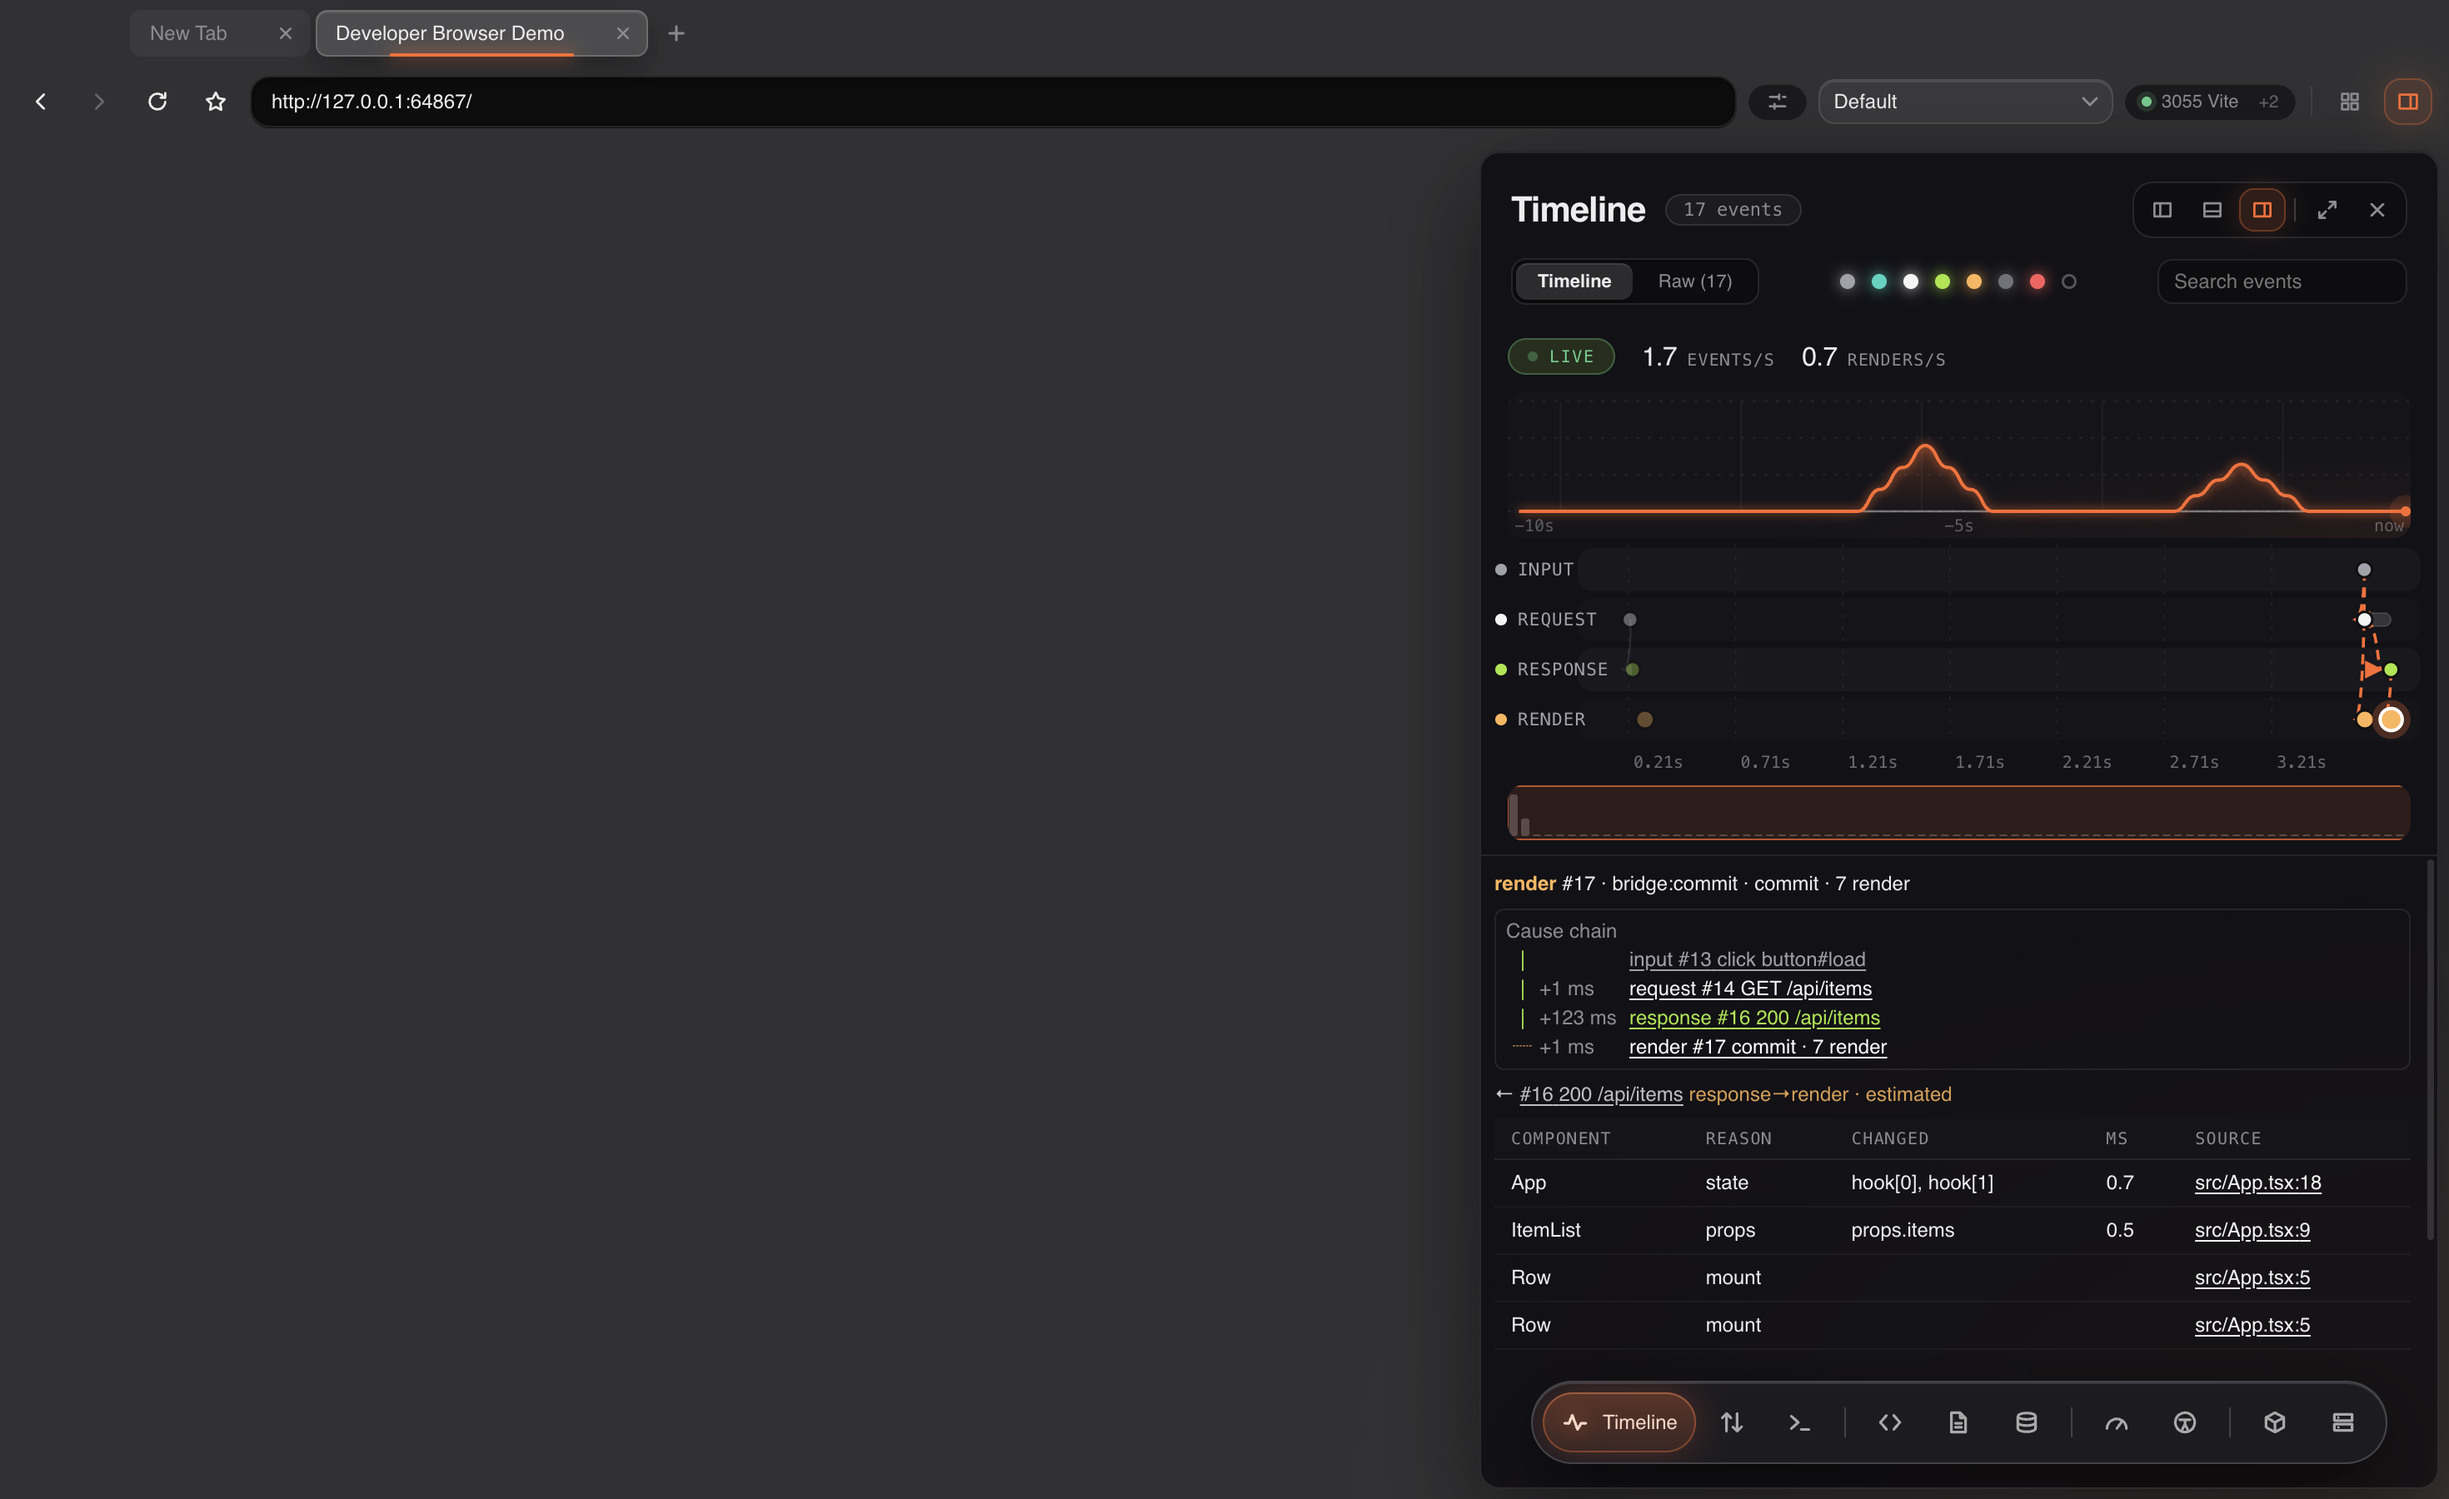
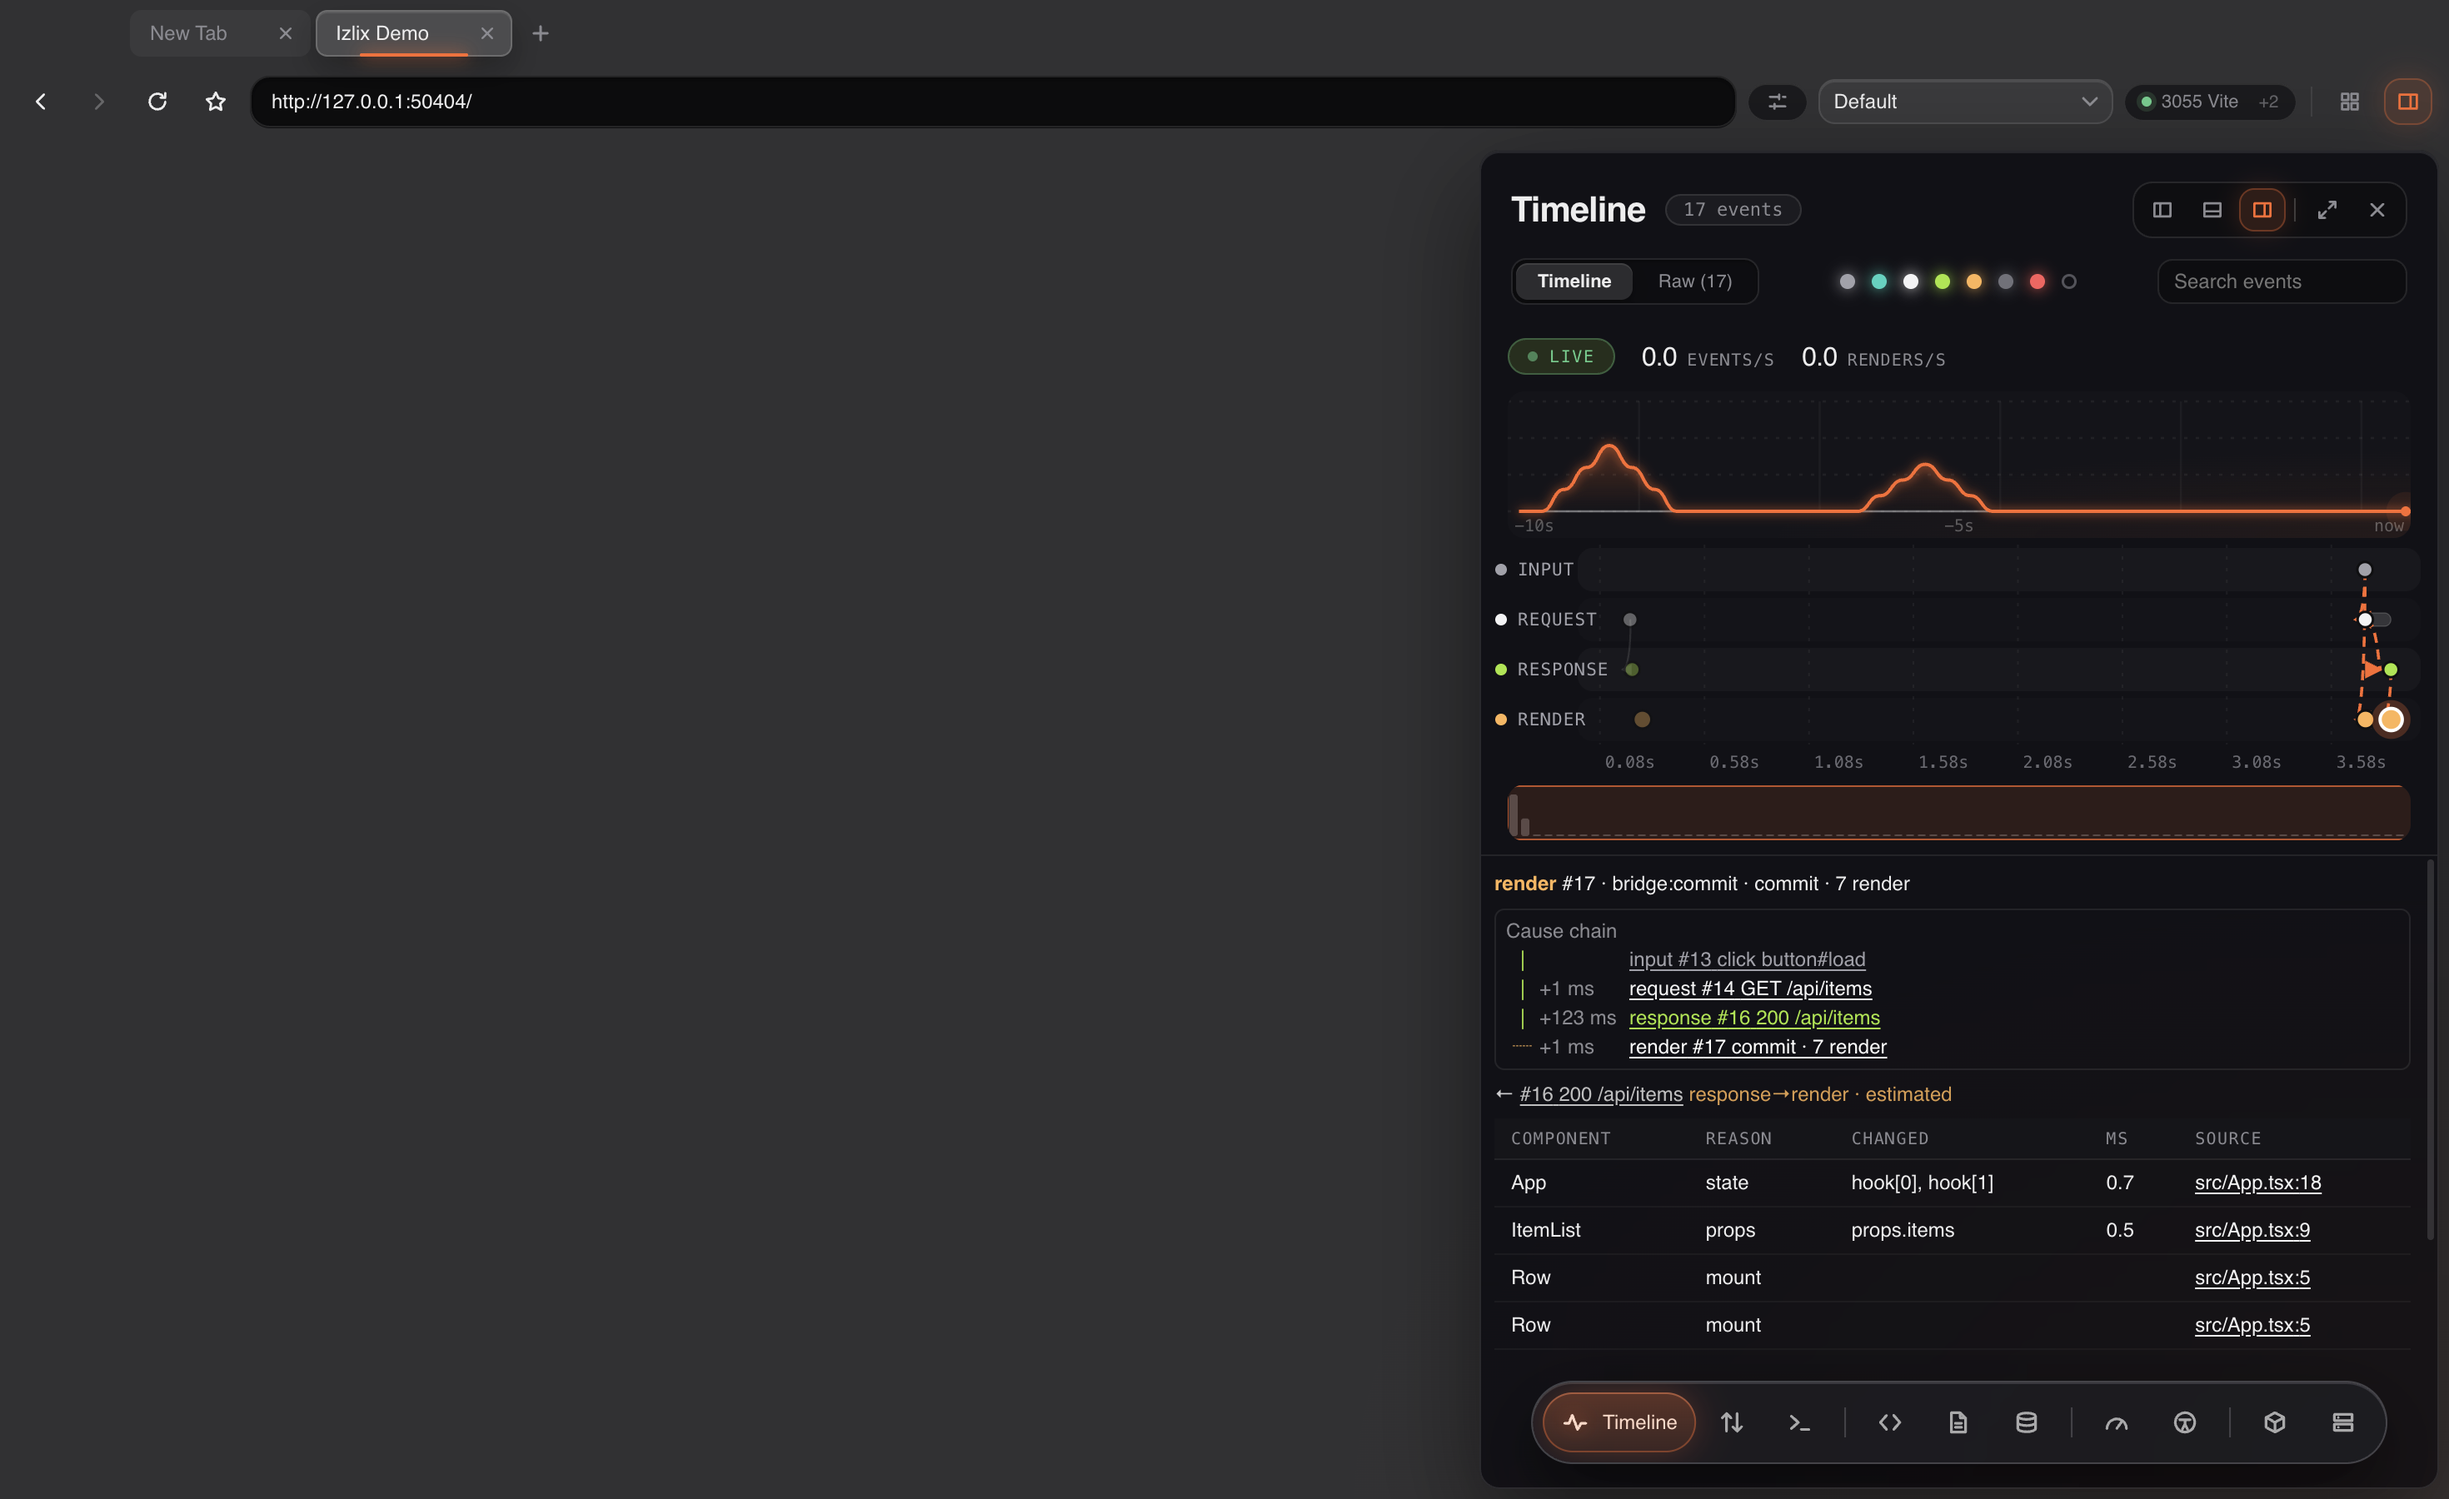
Rewrite the README with an animated header, demo and diagram
README'yi animasyonlu başlık, demo GIF'i ve mimari diyagramla yeniden yaz

diff --git a/README.md b/README.md
@@ -1,35 +1,71 @@
-# Izlix (working name)
+<p align="center">
+  <img src="docs/assets/hero.svg" alt="Izlix: follow the trace, from click to render" width="100%">
+</p>
 
-A **React-aware development browser** for macOS. See *why* something broke: a click, the request it fired, the response, the state change and the render that followed are drawn on **one timeline with cause arrows**, and any component, render, error or request opens its source file at the exact line in your editor.
+<p align="center">
+  <img alt="platform" src="https://img.shields.io/badge/platform-macOS-1d1d20?style=flat-square&logo=apple&logoColor=white">
+  <img alt="electron" src="https://img.shields.io/badge/Electron-45-1d1d20?style=flat-square&logo=electron&logoColor=47848f">
+  <img alt="react" src="https://img.shields.io/badge/React-18%20%26%2019-1d1d20?style=flat-square&logo=react&logoColor=61dafb">
+  <img alt="license" src="https://img.shields.io/badge/license-Apache--2.0-ff6a2b?style=flat-square">
+  <img alt="status" src="https://img.shields.io/badge/status-alpha-ff6a2b?style=flat-square">
+</p>
 
-> Status: **alpha**. Built with Electron 45 + React 19 + TypeScript. macOS only. Not signed, no auto-update (see [Limitations](#limitations)).
+**Izlix** (from the old Turkic *iz*, "trace") is a **React-aware development browser** for macOS. When something breaks, you see *why*: the click, the request it fired, the response, the state change and the render that followed are drawn on **one timeline with cause arrows**. Click any component, render, error or request and the source file opens at the exact line in your editor.
 
-| Timeline with cause chain | Command palette | Apps hub |
-|---|---|---|
-| ![timeline](docs/screenshots/timeline.png) | ![palette](docs/screenshots/palette.png) | ![hub](docs/screenshots/hub.png) |
+<p align="center">
+  <img src="docs/assets/demo.gif" alt="A click becomes a request, a response and a render on the timeline" width="62%">
+</p>
 
-## What it does
+> **Status: alpha.** macOS only, not signed, no auto-update. Please read [Limitations](#limitations) before using it as your main browser.
 
-**See**
-- Unified Timeline: input → request → response → render → error on one axis. Each link is marked *certain* or *estimated*.
-- React Inspector and Render Tracker (props/state/hooks, render count, time, reason), React 18 and 19.
-- Own Network, Console, Elements, Sources (breakpoints, source maps), Storage, Performance, Coverage, Accessibility and SEO panels. Chrome DevTools can be embedded as well.
-- State panel for Zustand and Redux stores.
+---
 
-**Find**
-- Click-to-source: component, render, error or request → `file:line` in VS Code, Cursor or WebStorm.
-- Workspaces with isolated cookies/storage, running dev servers detected in seconds.
-- Command palette (⌘K), search across all tabs, session recorder with Playwright export and replay.
+## See · Find · Change
 
-**Change**
-- Request Rules per workspace: redirect, headers, JSON mock, latency, status code. Changed requests are badged on the timeline.
-- Responsive Lab: up to 4 synchronized viewports, device/network/CPU/geolocation/media emulation.
-- Bug report zip: timeline, HAR, screenshot, console, environment, Markdown summary. Tokens and cookies are masked.
+<table>
+<tr>
+<td width="33%" valign="top">
 
-**Everyday browser features**
-Tabs and groups, vertical tabs, bookmarks, history, downloads manager, built-in password manager (macOS Keychain), private tabs and Tor tabs, ad/tracker blocker, HTTPS-only, malware and look-alike site warning, translate, reader mode, page notes, picture-in-picture, multi-window with shared tabs, optional encrypted iCloud Drive sync, and an Apps Hub (WhatsApp, Telegram, Meet, YouTrack, YouTube, Instagram) with unread counts.
+### See
+- **Unified timeline**: input → request → response → render → error on one axis. Every link is marked *exact* or *estimated*.
+- **React Inspector** and render tracker: props, state, hooks, render count, time and reason (React 18 and 19).
+- Own **Network, Console, Elements, Sources** (breakpoints, source maps), **Storage, Performance, Coverage, Accessibility, SEO** panels.
+- **State panel** for Zustand and Redux.
 
-## Run
+</td>
+<td width="33%" valign="top">
+
+### Find
+- **Click-to-source**: component, render, error or request → `file:line` in VS Code, Cursor or WebStorm.
+- **Workspaces** with isolated cookies and storage; running dev servers are detected in seconds.
+- **Command palette** (⌘K), search across all tabs, session recorder with Playwright export and replay.
+
+</td>
+<td width="33%" valign="top">
+
+### Change
+- **Request rules** per workspace: redirect, headers, JSON mock, latency, status code. Changed requests are badged on the timeline.
+- **Responsive Lab**: up to 4 synchronized viewports, device, network, CPU, geolocation and media emulation.
+- **Bug report** zip: timeline, HAR, screenshot, console, environment and a Markdown summary, with tokens and cookies masked.
+
+</td>
+</tr>
+</table>
+
+<p align="center">
+  <img src="docs/screenshots/timeline.png" alt="Timeline with a cause chain" width="49%">
+  <img src="docs/screenshots/palette.png" alt="Command palette" width="49%">
+</p>
+
+## It is also a real browser
+
+Tabs and groups · vertical tabs · bookmarks and history · download manager · built-in password manager (macOS Keychain) · private and Tor tabs · ad and tracker blocker · HTTPS-only · malware and look-alike site warning · translate · reader mode with read-aloud · page notes and highlights · picture-in-picture · multi-window with shared tabs · optional end-to-end encrypted iCloud Drive sync · and an **Apps Hub** for WhatsApp, Telegram, Meet, YouTrack, YouTube and Instagram with unread counts.
+
+<p align="center">
+  <img src="docs/screenshots/hub.png" alt="Apps hub" width="70%">
+</p>
+
+## Run it
 
 ```bash
 npm install
@@ -37,34 +73,46 @@ npm run dev          # development (electron-vite)
 npm test             # unit tests (vitest)
 npm run typecheck
 npm run pack         # unsigned .app in dist/
-python3 tests/e2e/suite.py [name ...]   # end-to-end suite (real Electron, quiet mode)
+python3 tests/e2e/suite.py [name ...]   # end-to-end suite on a real Electron (quiet mode)
 ```
 
-`ELECTRON_RUN_AS_NODE` must not be set (the scripts clear it). Some e2e scripts expect a Vite + React 19 test app: set `DB_TESTAPP` to its folder and run it on `localhost:5173`.
+`ELECTRON_RUN_AS_NODE` must not be set (the scripts clear it). Some end-to-end scripts expect a Vite + React 19 test app: point `DB_TESTAPP` to its folder and serve it on `localhost:5173`.
 
-## Architecture (short)
+Open a project from the terminal with `izlix open .` (see `bin/izlix.js`). An optional Chrome helper extension in `extension/` opens the current page in Izlix.
 
-- `src/main`: windows/tabs, CDP collector, React bridge, event bus, correlator, source resolver, request interceptor, lab.
-- `src/renderer`: shell UI (React + Zustand). Never talks to pages directly; everything goes through allow-listed, zod-validated IPC.
-- `src/shared`: pure logic (rules, layout, search, masking, correlation helpers), unit tested.
-- Pages run in sandboxed `WebContentsView`s with no preload. Details: [docs/PLAN.md](docs/PLAN.md) (Turkish product plan).
+## How it works
+
+```mermaid
+flowchart LR
+  P[Page<br/>sandboxed view] -- CDP + React bridge --> C[Collector]
+  C --> B[(Event bus<br/>ring buffer)]
+  B --> R[Correlator<br/>exact / estimated links]
+  R --> S[Shell UI<br/>React + Zustand]
+  S -- allow-listed IPC<br/>zod validated --> M[Main process]
+  M -- rules / mocks --> P
+  S -- click-to-source --> E[Your editor]
+```
+
+- `src/main`: windows and tabs, CDP collector, React bridge, event bus, correlator, source resolver, request interceptor, lab.
+- `src/renderer`: the shell UI. It never talks to pages directly; everything goes through allow-listed, zod-validated IPC.
+- `src/shared`: pure logic (rules engine, layout, search, masking, correlation), unit tested.
+- Product plan: [docs/PLAN.md](docs/PLAN.md) (Turkish).
 
 ## Limitations
 
-Please read before using it as your main browser.
-- **No Google sign-in.** Google refuses sign-in in embedded Chromium browsers. Use another browser for Google accounts; the hub offers "open in default browser".
-- **Unsigned, no auto-update.** Chromium security fixes arrive only when you update Electron yourself (`npm run update-electron`). The app checks and tells you.
-- No extension store, passkeys or Widevine DRM (Netflix/Spotify web) with stock Electron.
-- The malware/look-alike warning is **not** Google Safe Browsing: coverage is narrower.
+- **No Google sign-in.** Google refuses sign-in inside embedded Chromium browsers. Use another browser for Google accounts. The hub offers "open in default browser".
+- **Unsigned, no auto-update.** Chromium security fixes arrive only when you update Electron (`npm run update-electron`). The app checks and tells you.
+- No extension store, passkeys or Widevine DRM (Netflix, Spotify web) with stock Electron.
+- The malware and look-alike warning is **not** Google Safe Browsing; its coverage is narrower.
 - macOS only.
 
 ## Security
 
-Pages are sandboxed and cannot reach IPC; permissions are denied by default; no telemetry unless you opt in; login requests are not recorded to the timeline. To report a vulnerability, open a private security advisory on GitHub.
+Pages run in sandboxed views with no preload and cannot reach IPC. Camera, microphone, location and notifications are denied by default. Telemetry is off unless you opt in. Sign-in requests are never recorded on the timeline, and exports mask tokens and cookies. To report a vulnerability, please open a private security advisory on GitHub.
 
 ## Türkçe özet
 
-React geliştiricisi için macOS'ta çalışan, "hatanın sebebini tıklamadan render'a kadar tek zaman çizelgesinde gör, kaynağını tek tıkla editörde aç" diyen bir geliştirici tarayıcısı. Alfa sürüm. Google hesabı girişi, imzalı sürüm ve otomatik güncelleme yok. Ürün planı: [docs/PLAN.md](docs/PLAN.md).
+**Izlix**, React geliştiricisi için macOS'ta çalışan bir geliştirici tarayıcısıdır. Adı Eski Türkçe *iz* kelimesinden gelir. Bir hatanın sebebini tıklamadan render'a kadar **tek zaman çizelgesinde** görürsünüz, kaynağını tek tıkla editörünüzde açarsınız, backend'e dokunmadan istekleri değiştirirsiniz. Alfa sürümdür; Google hesabı girişi, imzalı sürüm ve otomatik güncelleme henüz yok. Ürün planı: [docs/PLAN.md](docs/PLAN.md).
 
 ## License
 
